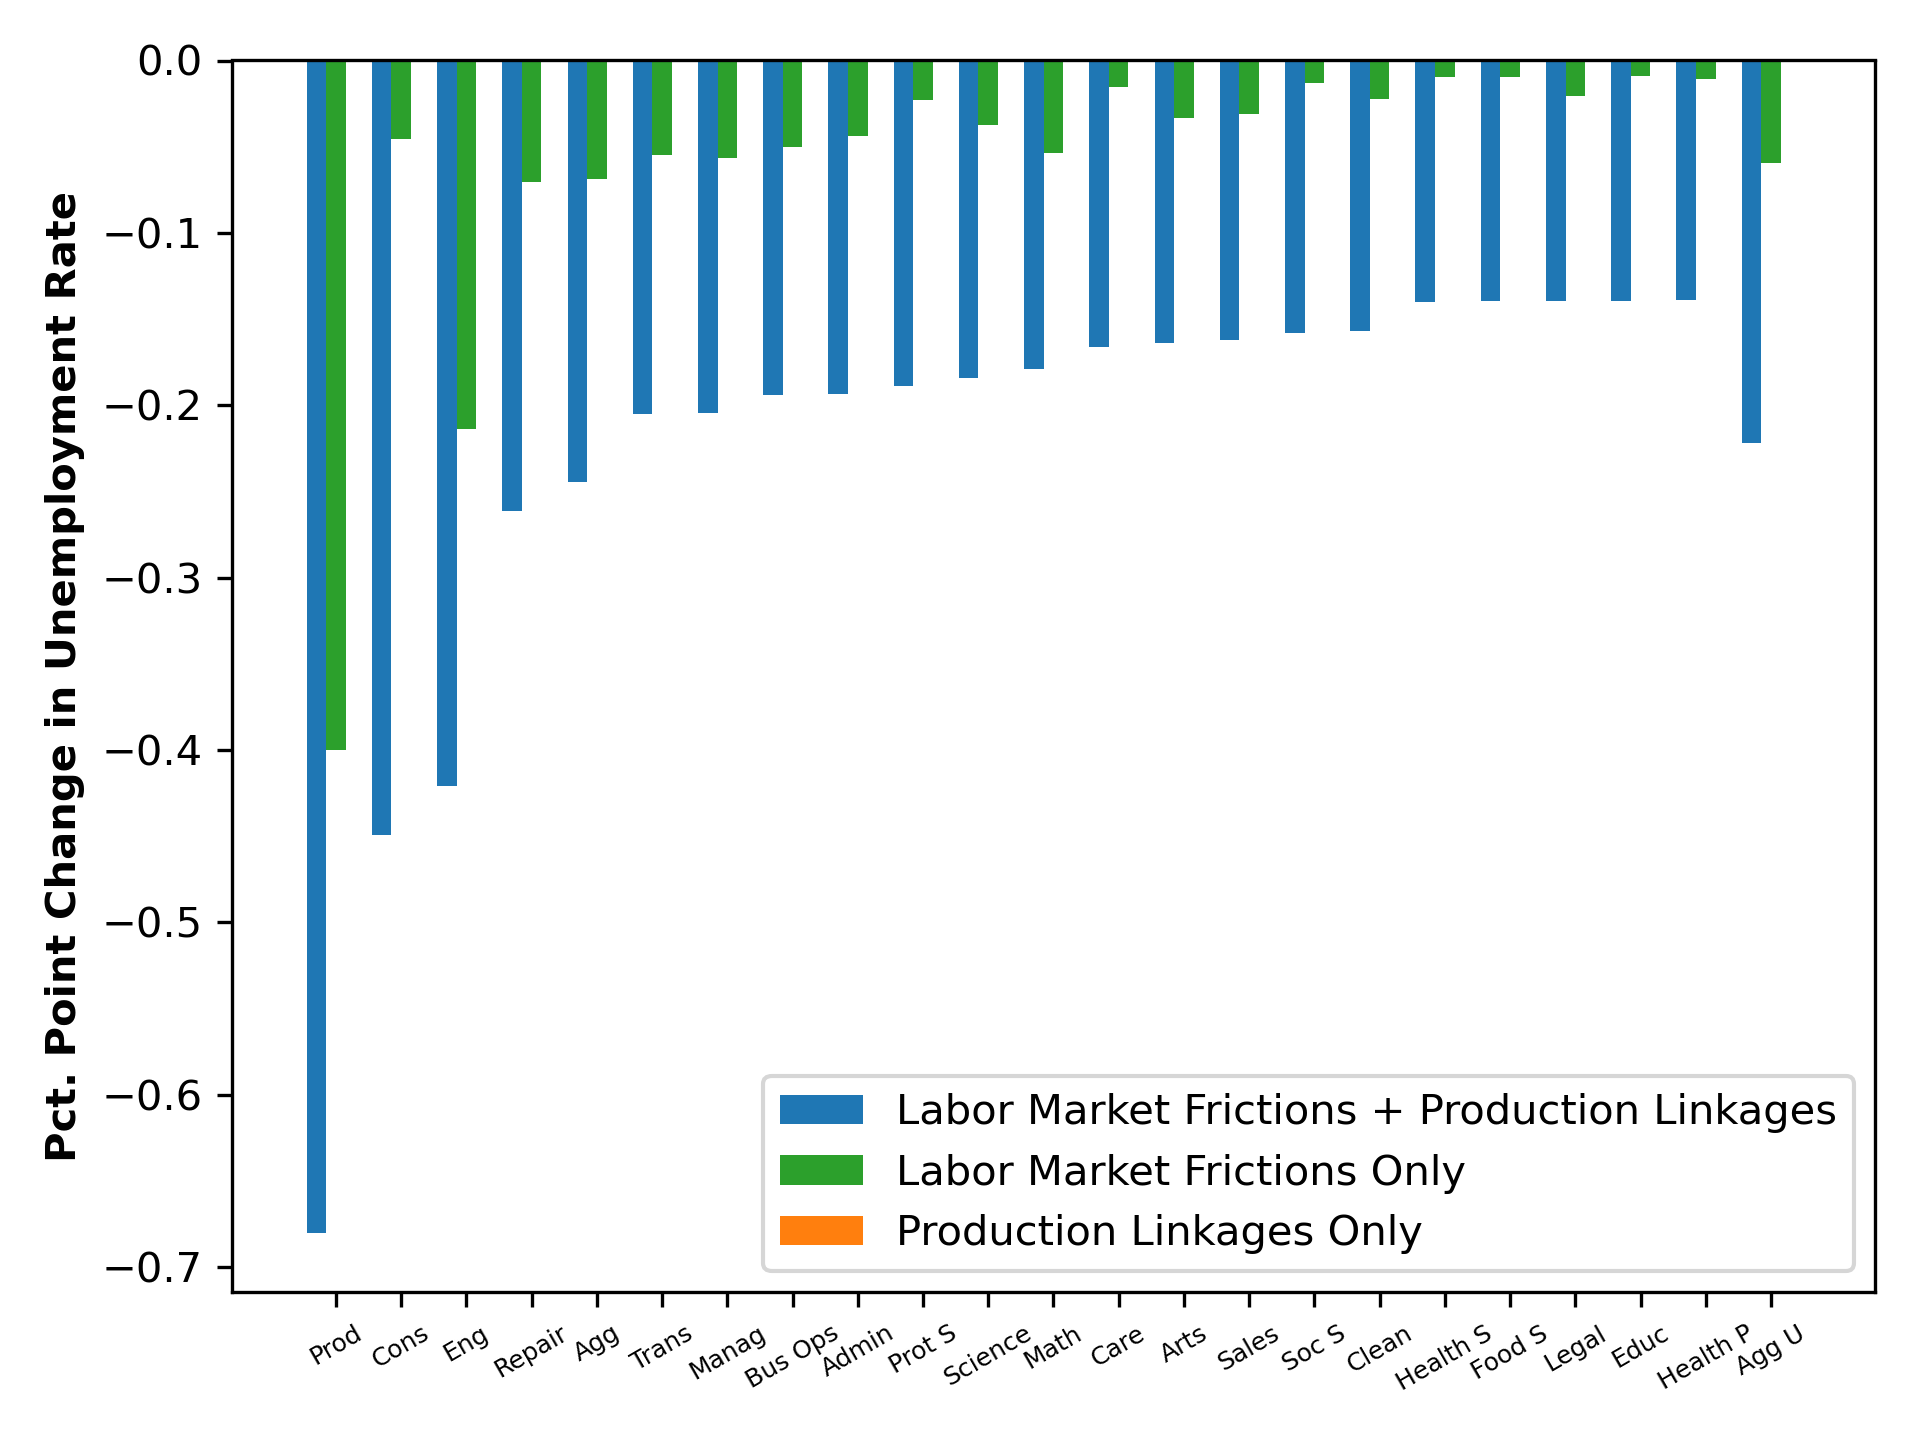
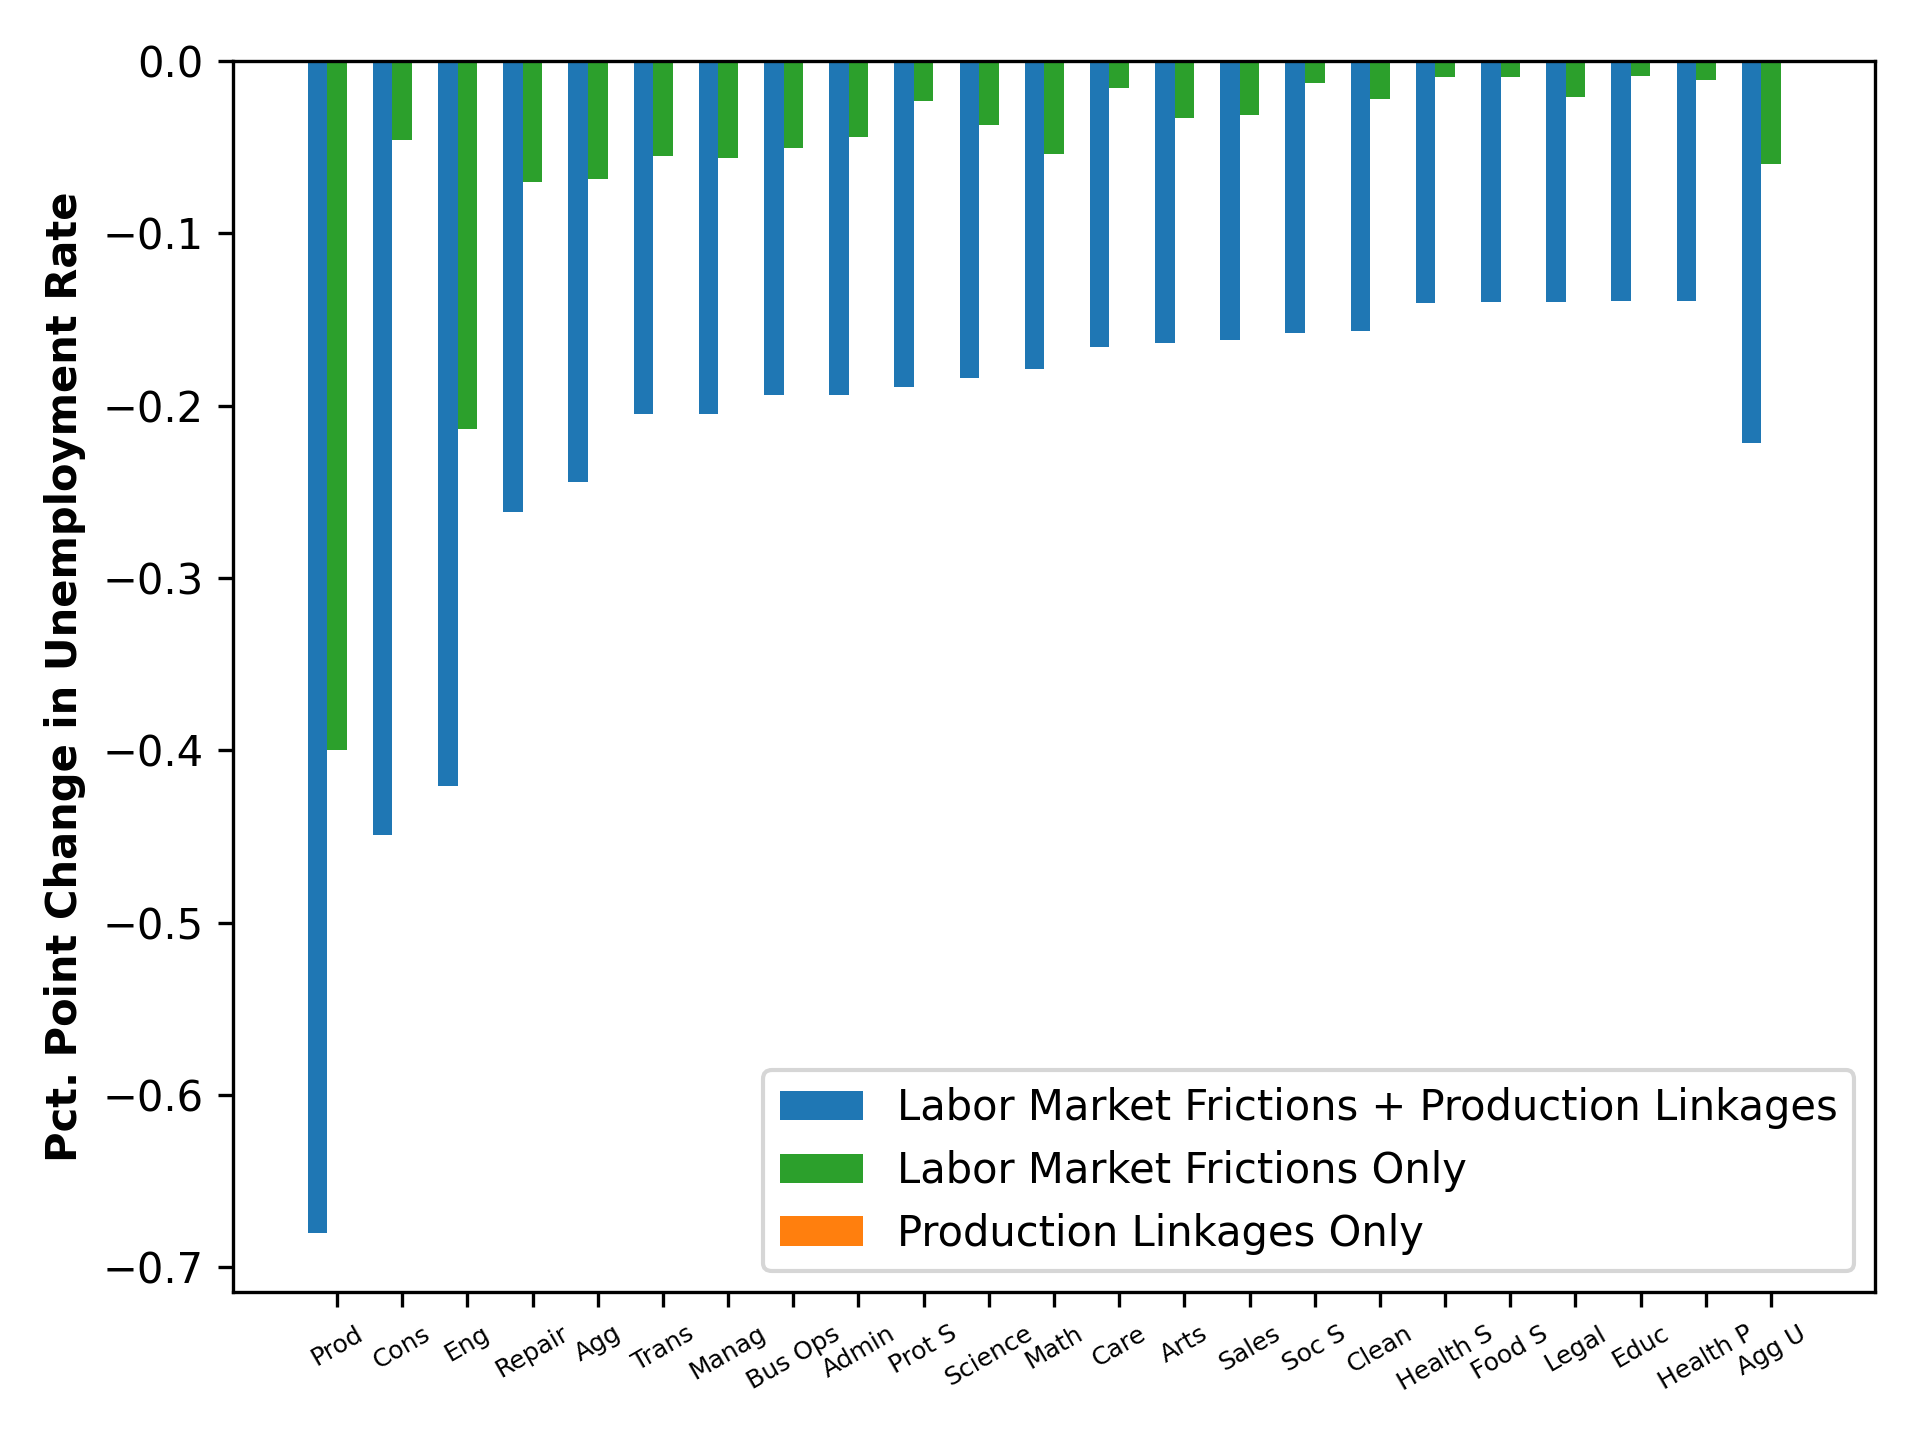
upgraded figures

diff --git a/code/paper_figures.py b/code/paper_figures.py
@@ -52,7 +52,8 @@ dfLUmerged = dfLabor_market_yearly.merge(dfL, how='inner', left_on='variable',ri
 ν = dfMatching_params['unemployment_elasticity']
 U = 1000*np.array(dfLabor_market_yearly['Unemployment']).reshape((O,1))
 u = np.diag(dfLabor_market_yearly['u'])
-V = np.array(dfLabor_market_yearly['Vacancy']).reshape((O,1))
+#V = np.array(dfLabor_market_yearly['Vacancy']).reshape((O,1))
+V = 1000*np.array(dfLabor_market_yearly['Vacancy']).reshape((O,1))
 L_mat = np.array(dfLUmerged.iloc[:, 10:]).reshape((O,J))
 L = np.sum(L_mat,1).reshape((O,1))
 
@@ -60,10 +61,11 @@ tau = dfTau['Tau']
 curlyT = np.diag(tau)
 curlyQ = np.diag(-ν)
 curlyF = np.eye(O) + curlyQ
-curlyF = u@curlyF
+curlyF = u @ curlyF
 theta = np.diag(V.flatten()/U.flatten())
 
-phi = np.diag(dfMatching_params['matching_efficiency'])
+#phi = np.diag(dfMatching_params['matching_efficiency'])
+phi = np.exp(np.log(1000*np.array(dfLabor_market_yearly['Hires'])) + np.diag(curlyQ) * np.log(U.flatten()) - (1+np.diag(curlyQ)) * np.log(V.flatten()))
 
 #Cobb-Douglas assumptions
 dlog_lam = np.zeros((J,1))
